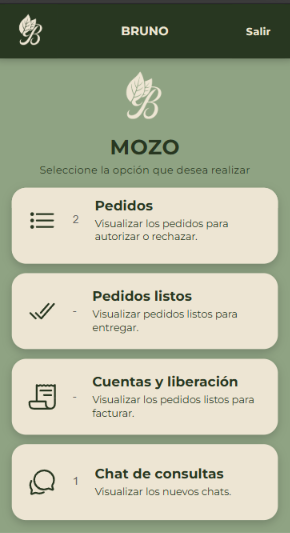
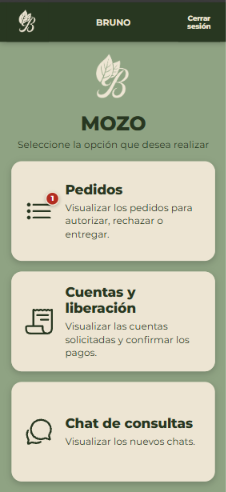
docs: actualiza readme

Changed region(s): [[0.0, 0.0, 1.0, 0.9756], [0.0929, 0.9756, 0.9292, 1.0]]

diff --git a/README.md b/README.md
@@ -344,7 +344,7 @@ Actualmente permite acceder a:
 - **Clientes pendientes:** visualización y gestión de clientes registrados que se encuentran pendientes de aprobación.
 
 <p align="center">
-  <img src="docs/capturas/duenio-supervisor/01-pantalla-inicio-duenio.png" width="300">
+  <img src="docs/capturas/duenio-supervisor/01-pantalla-inicio-duenio.jpeg" width="300">
 </p>
 
 ---
@@ -436,7 +436,7 @@ Pantalla destinada a la visualización de los productos disponibles en la carta 
 Cada producto presenta su información correspondiente, incluyendo nombre, descripción, precio y tiempo estimado de elaboración. Las fotografías pueden recorrerse mediante el carrusel de imágenes disponible en cada producto.
 
 <p align="center">
-  <img src="docs/capturas/cocina-bar/03-carta-platos.png" width="300">
+  <img src="docs/capturas/cocina-bar/03-carta-platos.jpeg" width="300">
 </p>
 
 **Editar menu**
@@ -582,6 +582,14 @@ El **importe acumulado** y el **tiempo estimado** se mantienen siempre visibles 
   <img src="docs/capturas/cliente/09-carta-pedido.png" width="300">
 </p>
 
+**Carta sin productos agregados**
+
+Mientras el pedido no tenga productos, la barra inferior indica que el pedido está vacío e invita a agregar productos para enviarlo al mozo.
+
+<p align="center">
+  <img src="docs/capturas/cliente/21-carta-pedido-vacio.png" width="300">
+</p>
+
 ---
 
 ### 7. Confirmar Pedido
@@ -592,6 +600,14 @@ Al finalizar, el mozo recibe una notificación automática para autorizar el ped
 
 <p align="center">
   <img src="docs/capturas/cliente/18-confirmar-pedido.png" width="300">
+</p>
+
+**Pedido vacío**
+
+Si el cliente elimina todos los productos, se muestra el aviso **"Tu pedido está vacío"**, el importe y el tiempo estimado vuelven a cero y el botón **Terminar y Enviar Pedido** queda deshabilitado hasta que se vuelva a la carta a agregar platos o bebidas.
+
+<p align="center">
+  <img src="docs/capturas/cliente/20-confirmar-pedido-vacio.png" width="300">
 </p>
 
 ---
@@ -685,7 +701,7 @@ El detalle y el pago se habilitan recién después de escanear el QR.
 <p align="center">
   <img src="docs/capturas/cliente/cliente-propina.png" width="300">
 </p>
-
+<!--COMENTADO
 **Sin cuenta abierta**
 
 Si el cliente ingresa a la cuenta sin haberla pedido, se le indica que primero debe recibir su pedido y tocar «Pedir la cuenta» desde la pantalla de su mesa.
@@ -693,6 +709,7 @@ Si el cliente ingresa a la cuenta sin haberla pedido, se le indica que primero d
 <p align="center">
   <img src="docs/capturas/cliente/sin-cuenta.png" width="300">
 </p>
+ -->
 
 ---
 
@@ -849,9 +866,8 @@ Desde la lista de espera, el metre puede visualizar los clientes que solicitaron
 
 Una vez disponible una mesa, el metre puede asignarla al cliente correspondiente para continuar con el flujo de atención.
 
-
 <p align="center">
-  <img src="docs/capturas/mozo-metre/clientes_pendientes.jpg" width="300">
+  <img src="docs/capturas/mozo-metre/08-lista-espera-una-solicitud.jpeg" width="300">
 </p>
 
 **Sin clientes pendientes**
@@ -868,7 +884,7 @@ Al seleccionar un cliente de la lista de espera, el metre visualiza las mesas di
 Al asignarse la mesa, el cliente recibe una push notification para escanear el QR de su mesa.
 
 <p align="center">
-  <img src="docs/capturas/mozo-metre/asignar_mesa.jpg" width="300">
+  <img src="docs/capturas/mozo-metre/asignar_mesa.jpeg" width="300">
 </p>
 
 ---
@@ -879,12 +895,11 @@ Pantalla principal correspondiente al perfil mozo. Desde esta sección se centra
 
 Actualmente dispone de los siguientes accesos:
 
-- **Pedidos:** pedidos enviados por los clientes que requieren autorización o rechazo por parte del mozo.
-- **Pedidos listos:** pedidos cuya preparación fue finalizada y se encuentran disponibles para ser entregados.
-- **Cuentas y liberación:** gestión del proceso de cobro y posterior liberación de la mesa.
+- **Pedidos:** pedidos enviados por los clientes para autorizar, rechazar o entregar una vez listos.
+- **Cuentas y liberación:** cuentas solicitadas por los clientes y confirmación de los pagos para liberar la mesa.
 - **Chat de consultas:** acceso a las consultas y conversaciones iniciadas por los clientes.
 
-Cada acceso muestra un contador con la cantidad de elementos pendientes (por ejemplo, pedidos a autorizar o chats nuevos).
+Los accesos muestran un indicador con la cantidad de elementos pendientes (por ejemplo, pedidos a gestionar).
 
 <p align="center">
   <img src="docs/capturas/mozo-metre/02-inicio-mozo.png" width="300">
@@ -911,7 +926,7 @@ Cada pedido muestra la mesa, el comensal, la fecha y hora, los productos solicit
 
 ### 6. Pedidos Listos
 
-Sección destinada a visualizar los pedidos cuya preparación fue completada por los sectores correspondientes.
+Dentro de la sección **Pedidos**, el mozo también visualiza los pedidos cuya preparación fue completada por los sectores correspondientes.
 
 El pedido deberá estar disponible para entrega una vez que todos los productos que lo componen se encuentren listos. Desde esta sección, el mozo podrá identificar los pedidos preparados y continuar con la entrega al cliente.
 
@@ -946,16 +961,21 @@ Cada cuenta muestra la mesa, el cliente, los horarios (solicitada, pagada y conf
 Cuando un cliente pide la cuenta, el mozo recibe una push notification y la cuenta aparece en **Cuentas solicitadas** con el estado **"Esperando propina"**, hasta que el cliente escanee un QR de propina. Una vez escaneado, se aplica la propina correspondiente y la cuenta pasa a **"Lista para pagar"**, a la espera del pago del cliente.
 
 <p align="center">
-  <img src="docs/capturas/mozo-metre/cuenta-solicitada-esperando-propina.png" width="300">
   <img src="docs/capturas/mozo-metre/cuenta-solicitada-lista-pagar.png" width="300">
 </p>
 
 **Pago por confirmar**
 
-Al tocar **Confirmar pago y liberar mesa**, se confirma el pago del cliente y la mesa vuelve a quedar disponible.
+Al tocar **Confirmar pago y liberar mesa**, se pide una confirmación con el monto recibido. Al aceptar, se confirma el pago del cliente y la mesa vuelve a quedar disponible.
 
 <p align="center">
   <img src="docs/capturas/mozo-metre/05-pago-por-confirmar.png" width="300">
+  <img src="docs/capturas/mozo-metre/05-confirmar-pago-dialogo.png" width="300">
+</p>
+
+**Sin pagos por confirmar**
+<p align="center">
+  <img src="docs/capturas/mozo-metre/05-pagos-por-confirmar-vacio.png" width="300">
 </p>
 
 **Cuentas cerradas**
